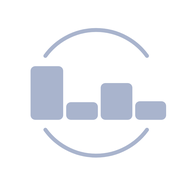
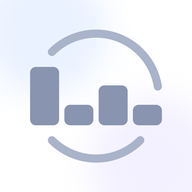
앱 아이콘을 새 로고로 교체
배경 그라디언트와 굵어진 원호가 들어간 새 로고를 반영했습니다.
180·192·512 는 원본에서 바로 줄였고, maskable 은 안드로이드가
원형으로 잘라내므로 안전 영역 안으로 85% 들여 다시 그렸습니다.
icon.svg 도 새 지오메트리로 갱신했습니다.

아이콘이 캐시에 남아 있지 않도록 서비스 워커 캐시를 v6 으로 올립니다.

Changed region(s): [[0.1562, 0.3438, 0.875, 0.875], [0.2188, 0.125, 0.8438, 0.4688]]

diff --git a/sw.js b/sw.js
@@ -1,7 +1,7 @@
 // Stale-while-revalidate: the app opens instantly from cache and quietly updates
 // in the background, so a plain refresh is enough to pick up changes. No version
 // bumping needed for edits to the files below.
-const CACHE = "metron-v5";
+const CACHE = "metron-v6";
 const SHELL = [
   "./", "./index.html", "./styles.css", "./chords.js", "./app.js",
   "./manifest.webmanifest",
